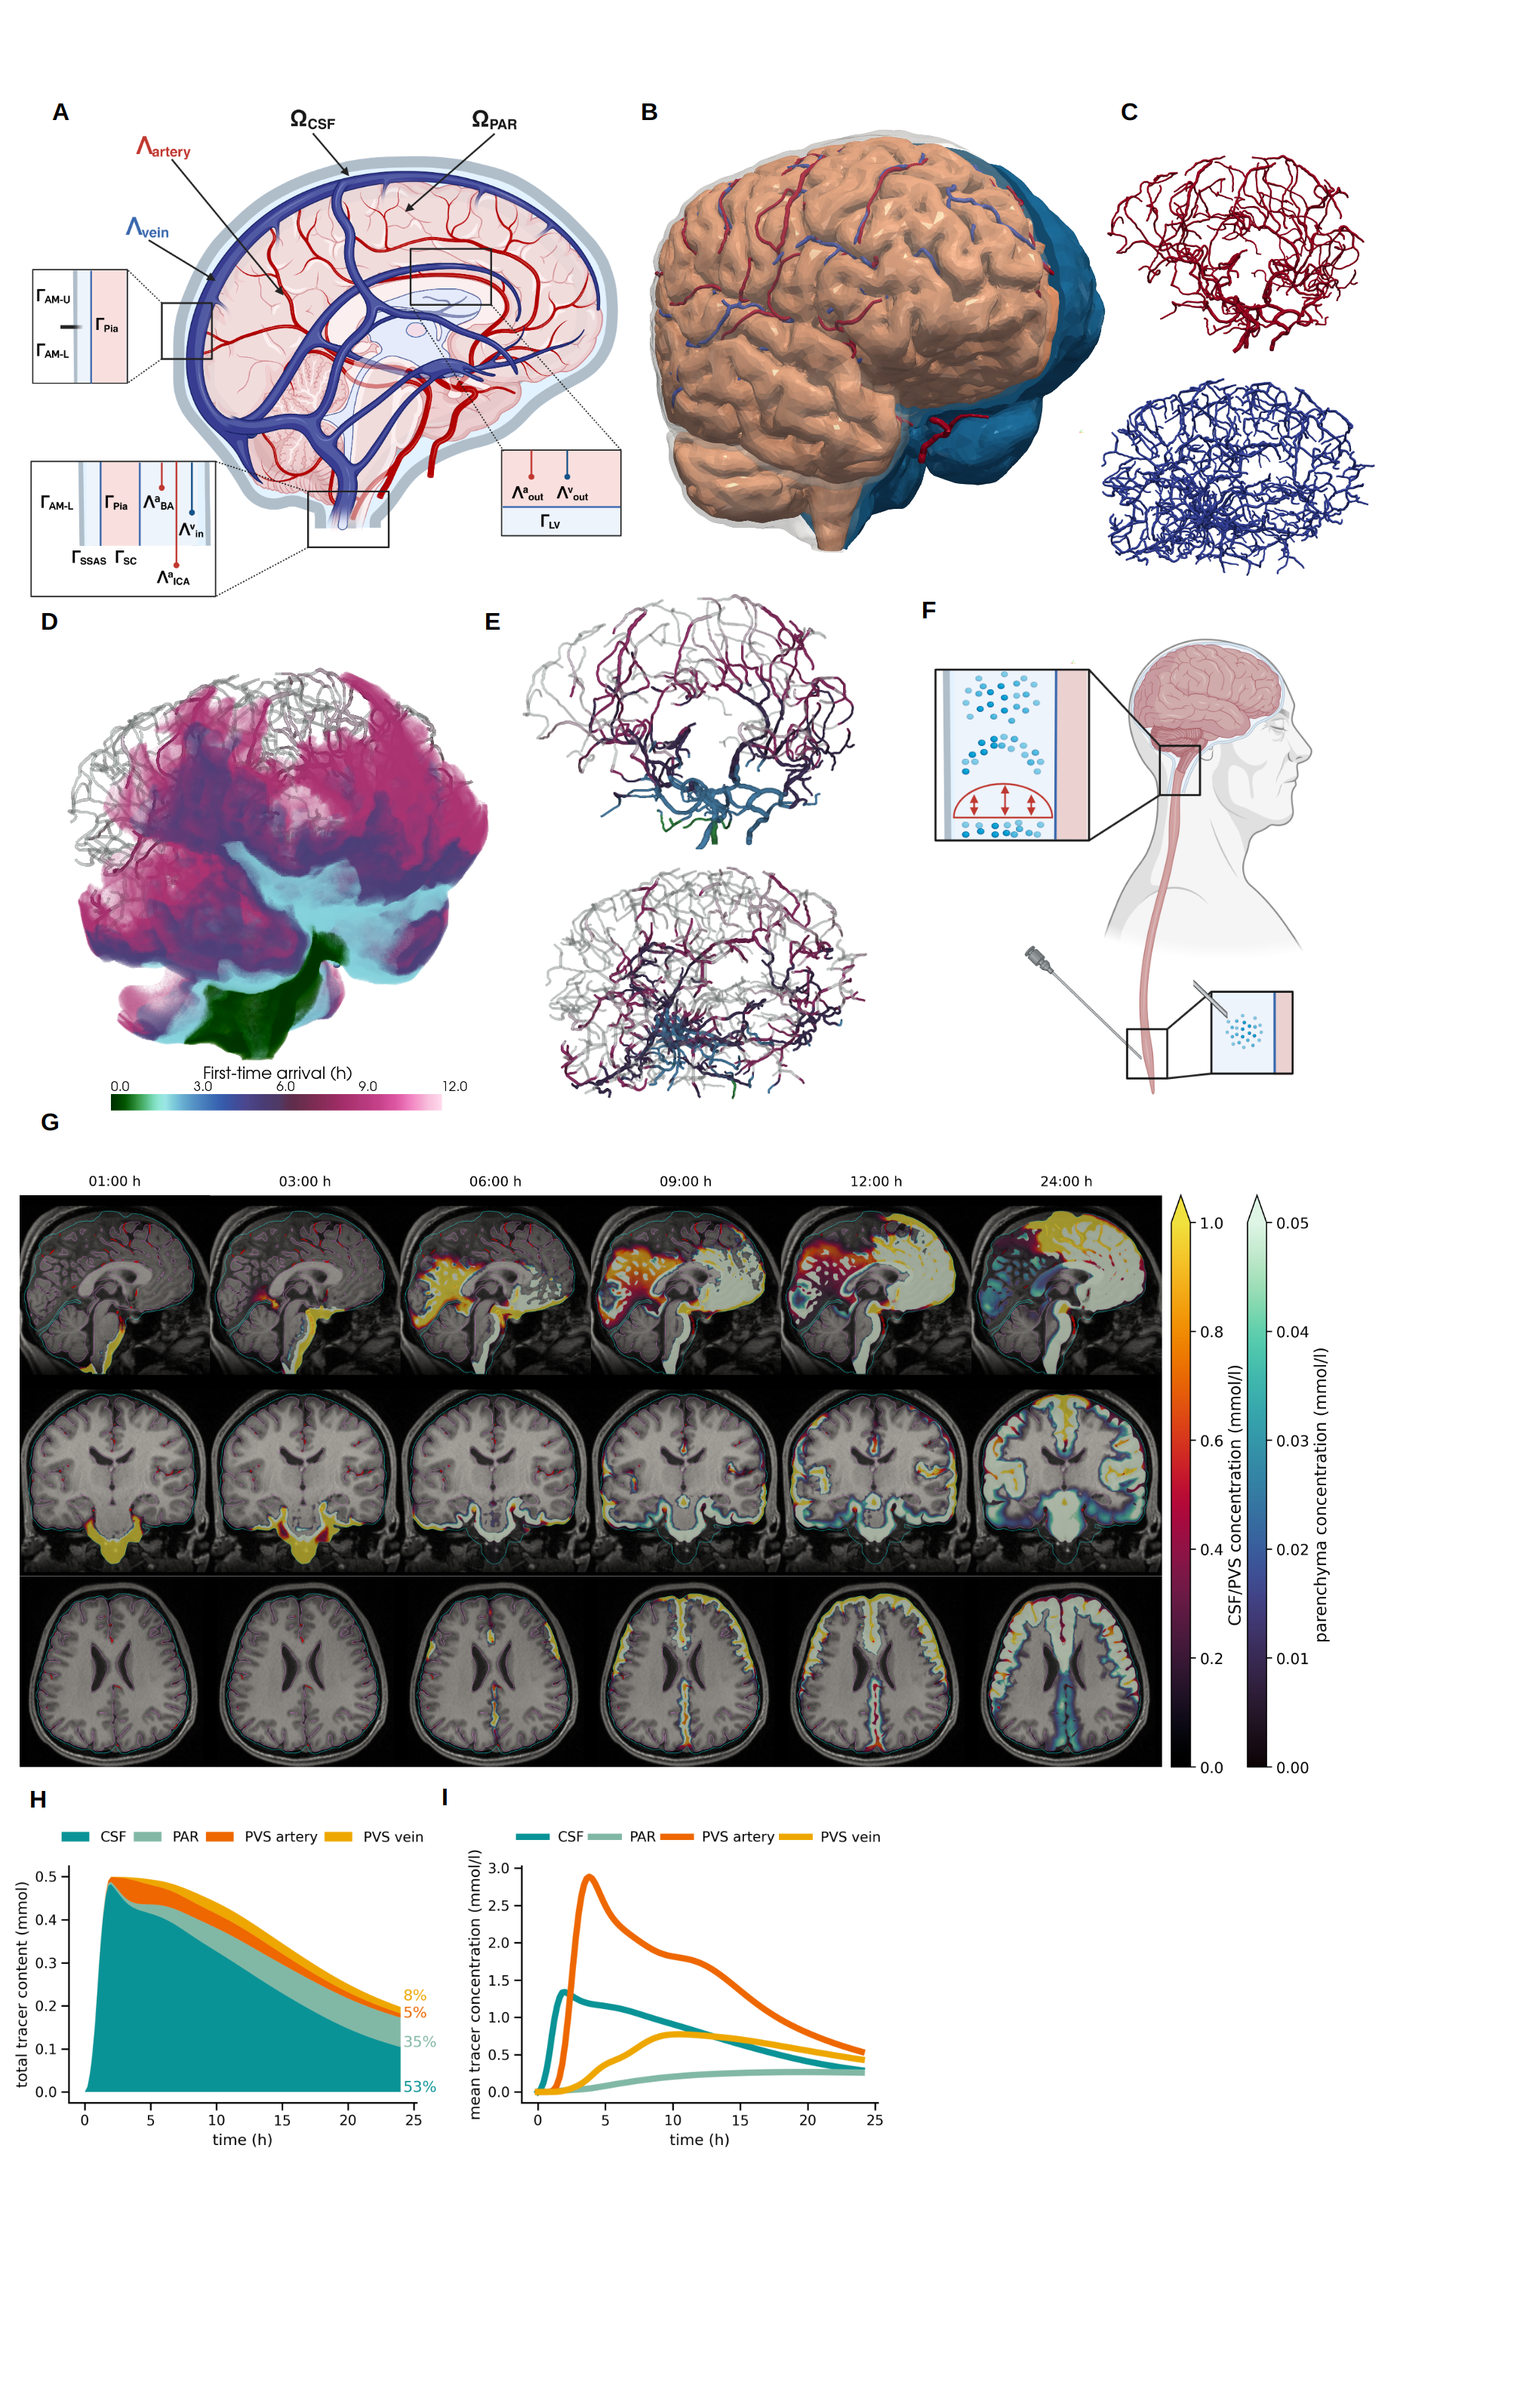
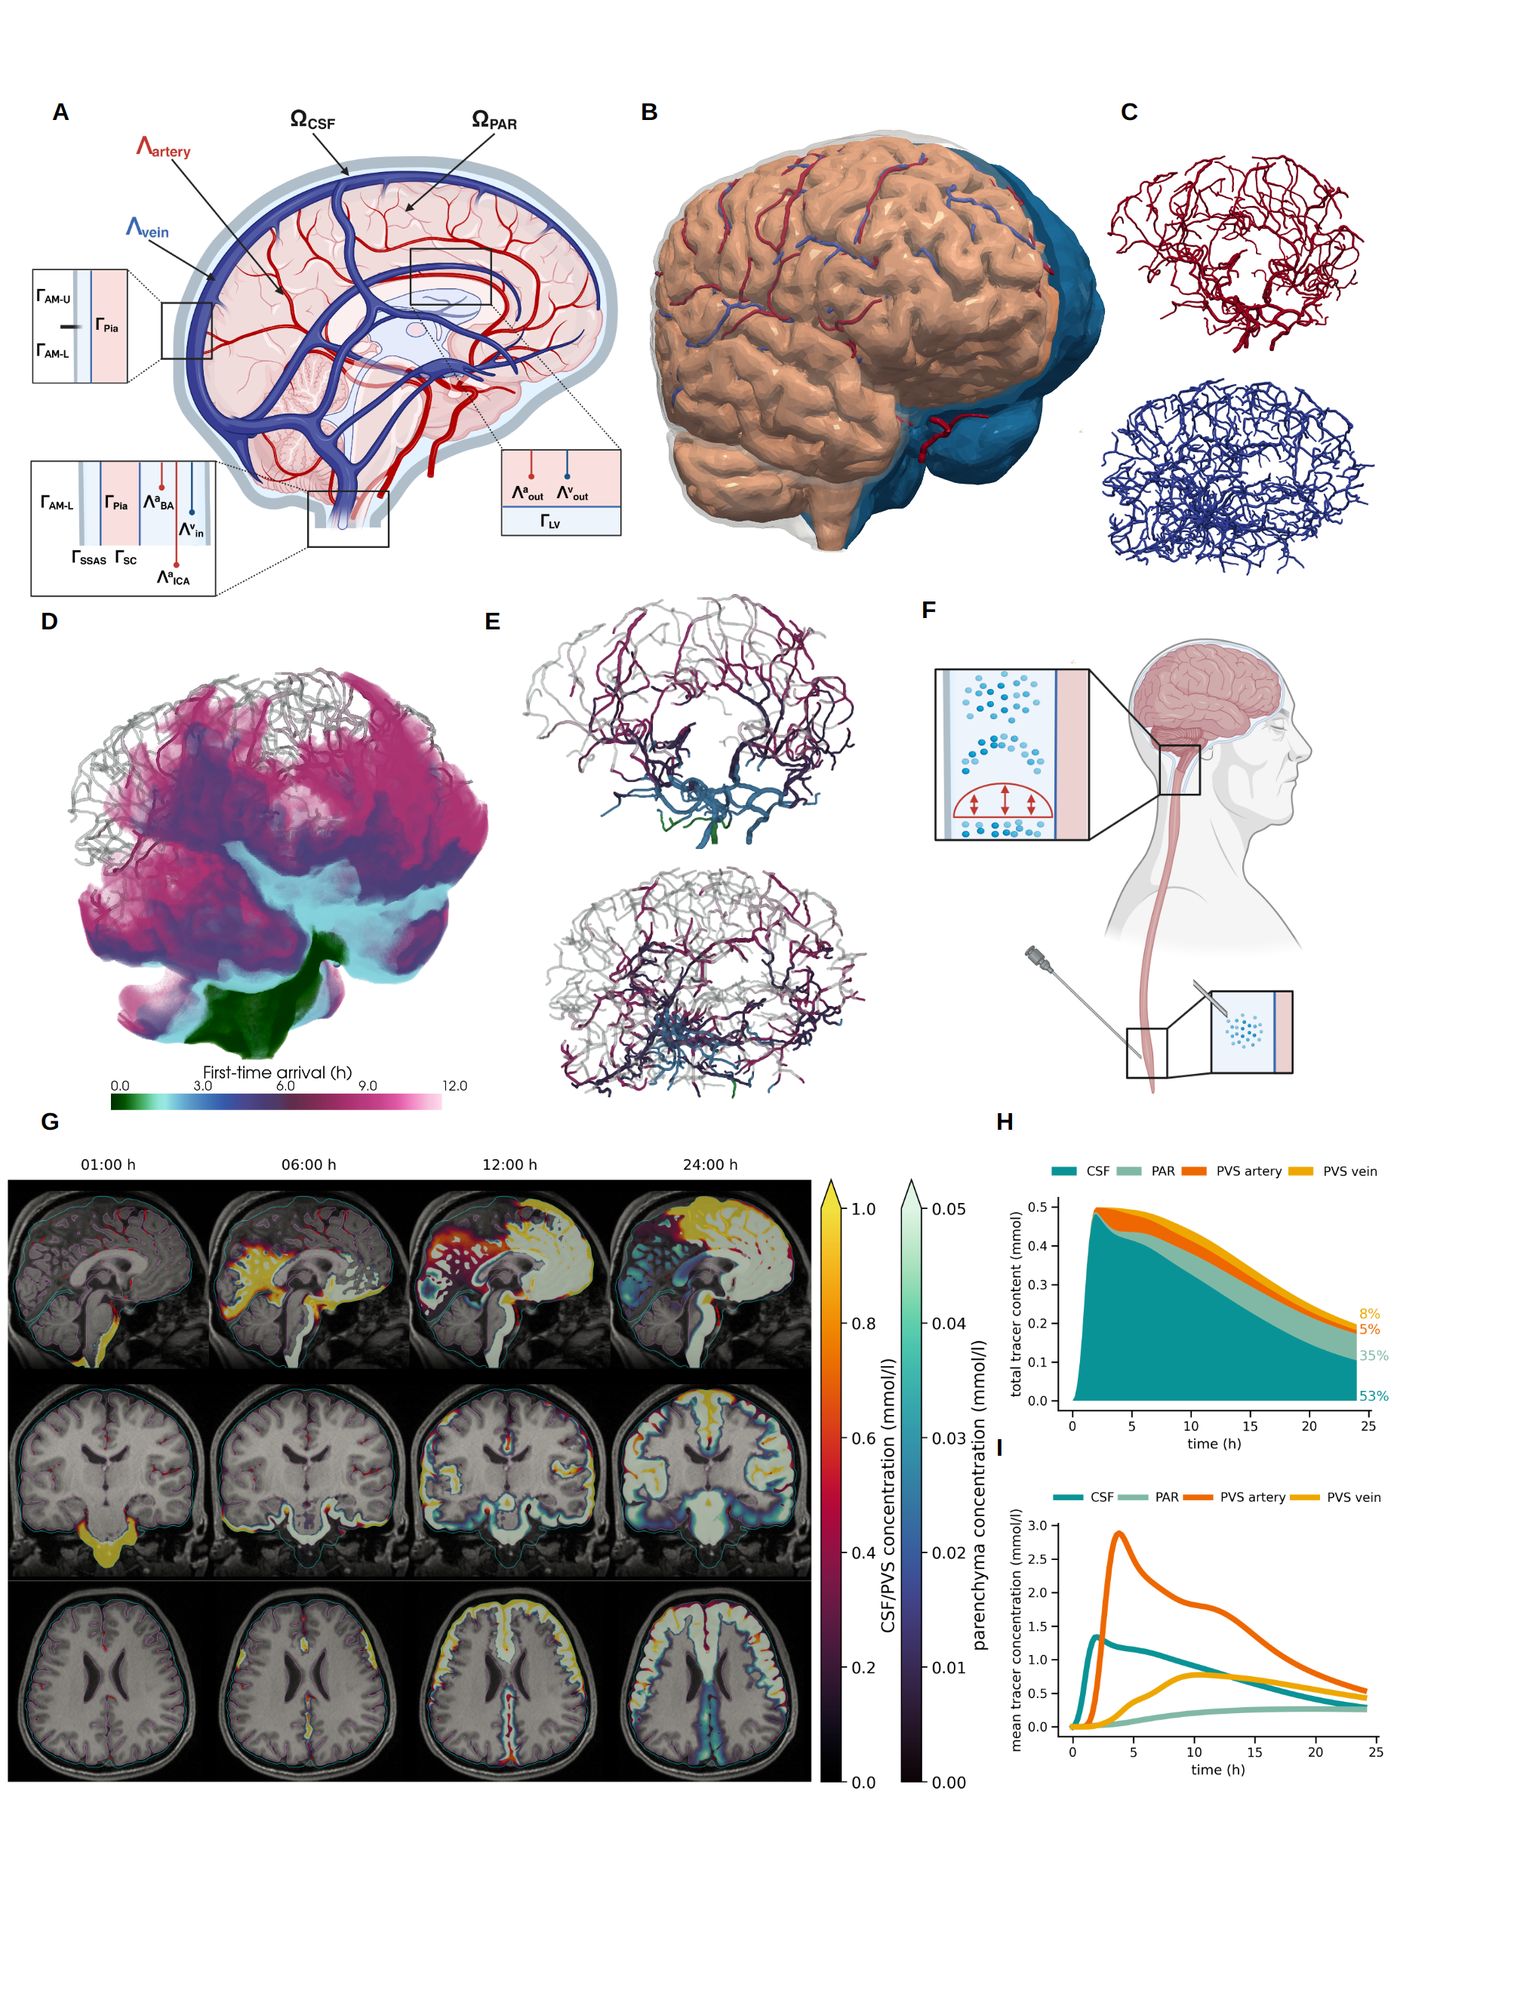
update figure 1

diff --git a/figure1.html b/figure1.html
@@ -38,9 +38,9 @@
 </html>
 <img src="plots/modelA/3D_FTA/3D_FTA.png" style="filter:hue-rotate(110deg);object-fit:contain;position:absolute;left:0px;top:244px;width:245px;height:272px;">
 <img src="paper/figures/Brain-PVS-callouts.png" style="object-fit:contain;position:absolute;left:2px;top:43px;width:284px;height:223px;">
-<img src="plots/modelA/modelA_overview_1-3-6-9-12-24.png" style="object-fit:contain;position:absolute;left:5px;top:508px;width:586px;height:287px;">
-<img src="plots/modelA/modelA_total_conc.png" style="object-fit:contain;position:absolute;left:0px;top:790px;width:200px;height:170px;">
-<img src="plots/modelA/modelA_mean_conc.png" style="object-fit:contain;position:absolute;left:200px;top:785px;width:200px;height:180px;">
+<img src="plots/modelA/modelA_overview_1-6-12-24.png" style="object-fit:contain;position:absolute;left:-6px;top:508px;width:452px;height:287px;">
+<img src="plots/modelA/modelA_total_conc.png" style="object-fit:contain;position:absolute;left:440px;top:500px;width:180px;height:150px;">
+<img src="plots/modelA/modelA_mean_conc.png" style="object-fit:contain;position:absolute;left:440px;top:644px;width:180px;height:150px;">
 <img src="paper/figures/brain_mesh_vessels.png" style="object-fit:contain;position:absolute;left:255px;top:43px;width:258px;height:223px;">
 <img src="paper/figures/arteries_red.png" style="object-fit:contain;position:absolute;left:457px;top:55px;width:181px;height:138px;">
 <img src="paper/figures/veines.png" style="object-fit:contain;position:absolute;left:453px;top:153px;width:186px;height:142px;">
@@ -54,5 +54,5 @@
 <h4 style="position:absolute;left:214px;top:254px;width:31px;height:24px;">E</h4>
 <h4 style="position:absolute;left:407px;top:249px;width:31px;height:24px;">F</h4>
 <h4 style="position:absolute;left:18px;top:475px;width:31px;height:24px;">G</h4>
-<h4 style="position:absolute;left:195px;top:773px;width:31px;height:24px;">I</h4>
-<h4 style="position:absolute;left:13px;top:774px;width:31px;height:24px;">H</h4>
+<h4 style="position:absolute;left:440px;top:619px;width:31px;height:24px;">I</h4>
+<h4 style="position:absolute;left:440px;top:475px;width:31px;height:24px;">H</h4>
